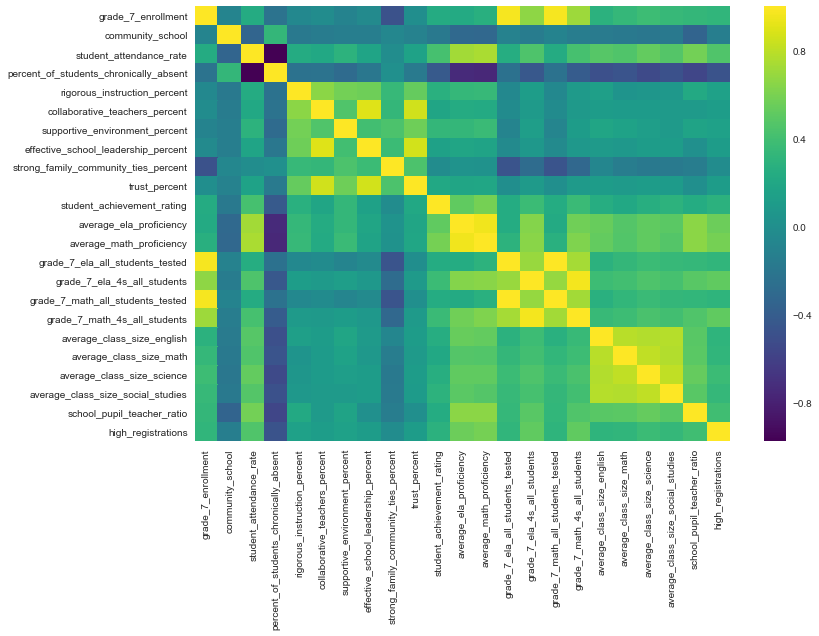
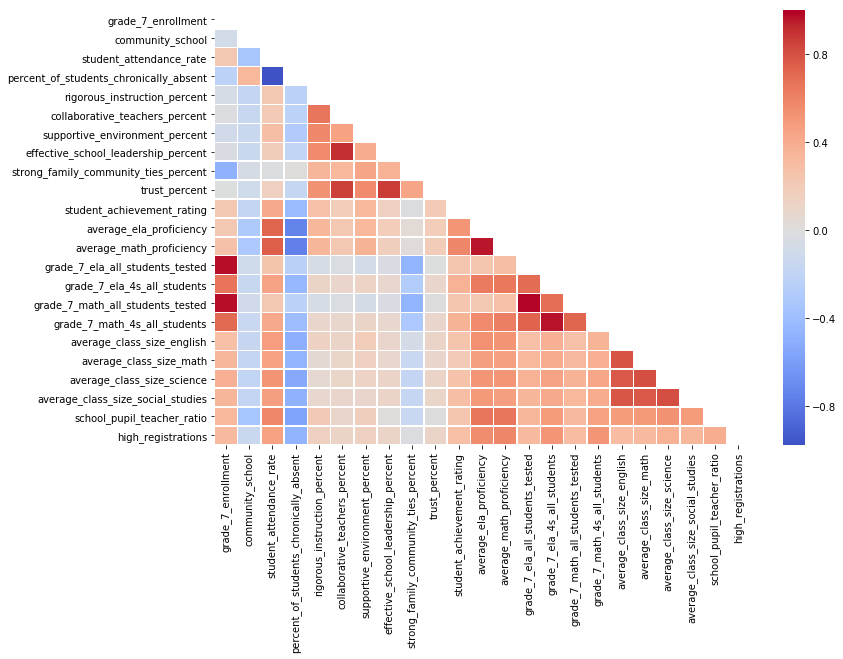
Showcase a different heatmap

diff --git a/eda_correlation_matrices.py b/eda_correlation_matrices.py
@@ -9,7 +9,7 @@
 # 
 # [Return to project overview](final_project_overview.ipynb)
 
-# In[12]:
+# In[1]:
 
 
 # import necessary libraries
@@ -34,10 +34,10 @@ Xy_train = pd.concat([train_data, train_labels], axis=1)
 # 
 # As we expect many of our features to be highly correlated, looking at a visual representation of the correlation matrix is a useful step in our EDA.  In this first plot, we intentionally omit features either directly representing, or closely related to demographic features.  
 
-# In[29]:
+# In[15]:
 
 
-get_ipython().magic('matplotlib inline')
+get_ipython().run_line_magic('matplotlib', 'inline')
 
 # choose key features for correlation matrix
 corr_features = ['grade_7_enrollment',
@@ -66,11 +66,14 @@ corr_features = ['grade_7_enrollment',
 
 # calculate correlation matrix
 corr_matrix = Xy_train[corr_features].corr(method='pearson')
+mask = np.zeros_like(corr_matrix)
+mask[np.triu_indices_from(mask)] = True
 
 # plot heatmap and also save to disk
 plt.rcParams['figure.figsize'] = [12, 8]
-sns.heatmap(corr_matrix, annot=False, fmt="g", cmap='viridis',
-            xticklabels=corr_matrix.columns, yticklabels=corr_matrix.columns)
+sns.heatmap(corr_matrix, annot=False, fmt="g",
+            xticklabels=corr_matrix.columns, yticklabels=corr_matrix.columns,
+           center=0, linewidths=0.5, cmap="coolwarm", mask=mask)
 plt.savefig('plots/corr_matrix_key_features.png', bbox_inches='tight')
 
 
@@ -80,7 +83,7 @@ plt.savefig('plots/corr_matrix_key_features.png', bbox_inches='tight')
 # 
 # As the lack of diversity in the SHSAT registrations is part of our original problem statement, it is also interesting to look at the existing correlation between demographic-related features and test registrations.
 
-# In[30]:
+# In[17]:
 
 
 # choose key features for correlation matrix
